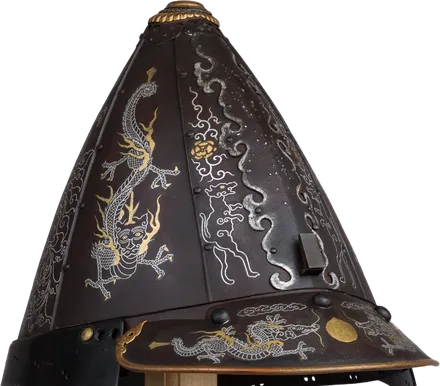
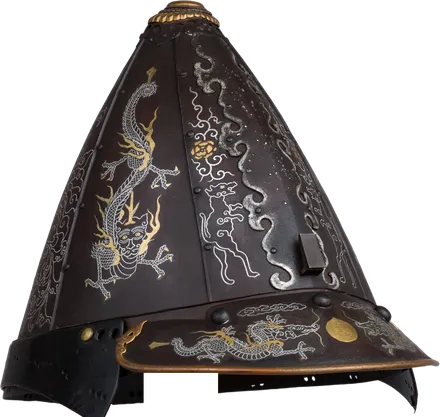
Mask only the stand on the dragon kabuto, keep its neck guards
Codex found the straight cut clipped the lower side plates and left a
wooden stub. Below the narrow neck only the stand remains, so those rows
go; above it the post's own columns are cleared up to the brim's dark
underside, and the metal on both sides stays whole.

diff --git a/scripts/assets/catalog.py b/scripts/assets/catalog.py
@@ -339,9 +339,10 @@ STAND_IDS = {27587}
 
 
 def strip_post(rgba):
-    """Removes a wooden cross stand from a kabuto photo. The post is found under the first
-    narrow neck below the helmet and followed up to where it meets the brim; the image is
-    cut straight across there, so the helmet ends cleanly at its brim."""
+    """Removes a wooden cross stand from a kabuto photo. Below the first narrow neck under the
+    helmet only the stand remains, so those rows are cleared. Above it the post stands in
+    front of the neck guard: its columns are cleared up to where it meets the brim, and the
+    metal on either side is kept."""
     a = np.asarray(rgba).copy()
     h, w = a.shape[:2]
     alpha = a[..., 3] > 40
@@ -371,17 +372,17 @@ def strip_post(rgba):
     if best[1] - best[0] < 4:
         return rgba
     x0, x1 = best[0], best[1] + 1
-    # Follow the post up while its columns stay warm, mid to light wood.
+    # Follow the post up to the brim. The wood darkens gradually with shade; the brim's
+    # lacquered underside is a sharply dark row, which is where the post ends.
     top = cut
     for y in range(cut - 1, max(0, cut - int(h * 0.35)), -1):
         seg = rgb[y, x0:x1]
         lum = (0.299 * seg[:, 0] + 0.587 * seg[:, 1] + 0.114 * seg[:, 2]) / 255
-        warm = seg[:, 0] - seg[:, 2]
-        wood = alpha[y, x0:x1] & (lum > 0.33) & (warm > 15) & (warm < 95)
-        if wood.mean() < 0.6:
+        if np.median(lum) < 0.25:
             break
         top = y
-    a[top:, :, 3] = 0
+    a[cut:, :, 3] = 0
+    a[top:cut, max(0, x0 - 2):min(w, x1 + 2), 3] = 0
     im = Image.fromarray(a, "RGBA")
     bbox = im.getbbox()
     return im.crop(bbox) if bbox else im

diff --git a/research/_codex_review5_reply.md b/research/_codex_review5_reply.md
@@ -1,0 +1,13 @@
+1. **Batch Inspect Keep: fixed.** [`MultiReveal.tsx:288`](<C:/Users/nikao/Desktop/Projects/Medieval Gacha/src/components/opening/MultiReveal.tsx:288>) deletes the UID from `selected` before closing. X and Escape use the separate dismiss callback. This matches your measured $93 to $63 change.
+
+2. **Keyboard blocker: not fully fixed.** [`HoldToOpen.tsx:43`](<C:/Users/nikao/Desktop/Projects/Medieval Gacha/src/components/opening/HoldToOpen.tsx:43>) focuses the seal. Phase focus and containment address the entry problem. **Return focus still fails:** Chromium left focus on `BODY` after Escape, with both cold and warm launches, including with StrictMode replay disabled. [`OpeningOverlay.tsx:179`](<C:/Users/nikao/Desktop/Projects/Medieval Gacha/src/components/opening/OpeningOverlay.tsx:179>) captures the opener after the provider has made the background inert. **Exact fix:** capture the launcher synchronously in `OpeningProvider.open()`, then restore focus from the provider after the closing render removes `inert`.
+
+**New defect**
+
+- **The kabuto crop clips actual metal.** [`catalog.py:384`](<C:/Users/nikao/Desktop/Projects/Medieval Gacha/scripts/assets/catalog.py:384>) clears every pixel below one horizontal boundary. Comparing the exported image with the cached cutout shows truncated lower side plates and a remaining wooden stub beneath the brim. **Exact fix:** replace the horizontal cut with an item-specific alpha mask for the exposed stand, preserve the metal silhouette, and regenerate the image, thumbnail and aspect. This is a localized visual defect; the overall visual verdict holds.
+
+Onboarding: **not yet**  
+Visuals: **clear yes**  
+Opening experience: **clear yes**
+
+No files edited.
